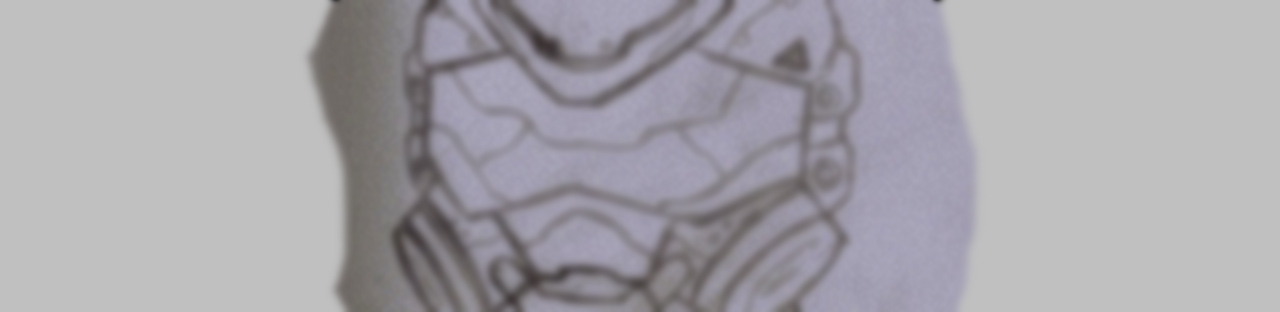
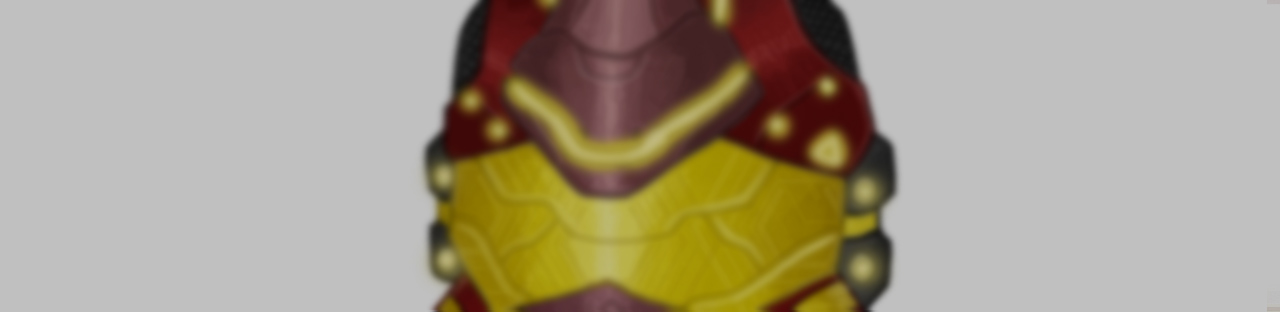
Update

diff --git a/portfolio/SplitScreen/index.html b/portfolio/SplitScreen/index.html
@@ -69,18 +69,18 @@
                             data-cycle-pager-template="<a href='#'><div style='background-image: url({{src}});'></div></a>"
                             >
                             <img src="/img/SplitScreen/splitscreen.jpg" data-slide="1">
-                            <img src="/img/SplitScreen/desktop.png" data-slide="2">
-                            <img src="/img/SplitScreen/01.jpg" data-slide="3">
-                            <img src="/img/SplitScreen/02.jpg" data-slide="4">
-                            <img src="/img/SplitScreen/03.jpg" data-slide="5">
-                            <img src="/img/SplitScreen/04.jpg" data-slide="6">
-                            <img src="/img/SplitScreen/05.jpg" data-slide="7">
-                            <img src="/img/SplitScreen/06.jpg" data-slide="8">
-                            <img src="/img/SplitScreen/07.jpg" data-slide="9">
-                            <img src="/img/SplitScreen/08.jpg" data-slide="10">
-                            <img src="/img/SplitScreen/09.jpg" data-slide="11">
-                            <img src="/img/SplitScreen/10.jpg" data-slide="12">
-                            <img src="/img/SplitScreen/11.jpg" data-slide="13">
+
+                            <img src="/img/SplitScreen/01.jpg" data-slide="2">
+                            <img src="/img/SplitScreen/02.jpg" data-slide="3">
+                            <img src="/img/SplitScreen/03.jpg" data-slide="4">
+                            <img src="/img/SplitScreen/04.jpg" data-slide="5">
+                            <img src="/img/SplitScreen/05.jpg" data-slide="6">
+                            <img src="/img/SplitScreen/06.jpg" data-slide="7">
+                            <img src="/img/SplitScreen/07.jpg" data-slide="8">
+                            <img src="/img/SplitScreen/08.jpg" data-slide="9">
+                            <img src="/img/SplitScreen/09.jpg" data-slide="10">
+                            <img src="/img/SplitScreen/10.jpg" data-slide="11">
+                            <img src="/img/SplitScreen/11.jpg" data-slide="12">
                         </div>
                     </div>
                     <div id="adv-custom-pager" class="center external"></div>
@@ -119,7 +119,7 @@
                 data-cycle-next="#next"
                 >
                 <div class="lb-actor" style="background-image: url(/img/SplitScreen/splitscreen.jpg);"></div>
-                <div class="lb-actor" style="background-image: url(/img/SplitScreen/desktop.png);"></div>
+
                 <div class="lb-actor" style="background-image: url(/img/SplitScreen/01.jpg);"></div>
                 <div class="lb-actor" style="background-image: url(/img/SplitScreen/02.jpg);"></div>
                 <div class="lb-actor" style="background-image: url(/img/SplitScreen/03.jpg);"></div>

diff --git a/portfolio/Helmet/index.html b/portfolio/Helmet/index.html
@@ -5,7 +5,7 @@
     <meta http-equiv="X-UA-Compatible" content="IE=edge,chrome=1">
     <meta name="viewport" content="width=device-width">
 
-    <title>Helmet | Andy Lao</title>
+    <title>Battle Helmet | Andy Lao</title>
     <meta name="description" content="">
     <meta name="author" content="Max Yeo">
 
@@ -14,7 +14,7 @@
 
     <meta name="theme-color" content="#720e1e">
 
-    <meta property="og:title" content="Helmet"/>
+    <meta property="og:title" content="Battle Helmet"/>
     <meta property="og:url" content=""/>
     <meta property="og:image" content=""/>
     <meta property="og:site_name" content="Andy Lao"/>
@@ -53,19 +53,20 @@
     <div class="page">
         <div id="banner" style="background-image: url(/img/Helmet/Helmet_Header.jpg);">
             <div id="banner-wrap">
-                <h1>Helmet - WIP</h1>
+                <h1>Battle Helmet</h1>
             </div>
 
         </div>
         <div id="expose">
             <div class="grid cf">
                 <div class="col-2-3">
-                    <img src="/img/Helmet/Helmet_WIP.jpg" data-slide="1">
+                    <img src="/img/Helmet/Helmet_Concept.jpg" data-slide="1">
                 </div>
                 <div class="col-1-3">
-                    <h2>About Helmet</h2>
-                    <p>This is currently a work in progress. I hope that in the near future I will
-                    fully digitally concept this piece and 3D sculpt a bust of this character. </p>
+                    <h2>About Battle Helmet</h2>
+                    <p>"Battle Helmet" is currently a work in progress. "Battle Helmet" is a work based on 
+                    designs from Bungie's "Halo" and "Destiny" series. What is displayed is a concept sketch
+                  I did to explore color compositions. In the near future I hope to model this helmet in 3D.</p>
                 </div>
             </div>
         </div>

diff --git a/index.html b/index.html
@@ -71,7 +71,13 @@
                 </div>
             </div>
             <div id="matrix-grid" class="cf">
-                <a href="/portfolio/Rene" class="matrix-box 2d">
+              <a href="/portfolio/Helmet" class="matrix-box 3d">
+                  <div class="matrix-image" style="background-image: url(/img/Helmet/Helmet_Concept.jpg);"></div>
+                  <div class="overlay">
+                      <h4>Battle Helmet</h4>
+                  </div>
+              </a>
+              <a href="/portfolio/Rene" class="matrix-box 2d">
                   <div class="matrix-image" style="background-image: url(/img/Rene/Rene_Full.jpg);"></div>
                   <div class="overlay">
                       <h4>Rene - The Bladed Blossom</h4>
@@ -135,12 +141,6 @@
                     <div class="matrix-image" style="background-image: url(/img/Elf/Elven_WIP.jpg);"></div>
                     <div class="overlay">
                         <h4>Elven Warrior - WIP</h4>
-                    </div>
-                </a> -->
-                <!-- <a href="/portfolio/Helmet" class="matrix-box 3d">
-                    <div class="matrix-image" style="background-image: url(/img/Helmet/Helmet_WIP.jpg);"></div>
-                    <div class="overlay">
-                        <h4>Helmet - WIP</h4>
                     </div>
                 </a> -->
                 <a href="/portfolio/Cyclops" class="matrix-box 2d">
